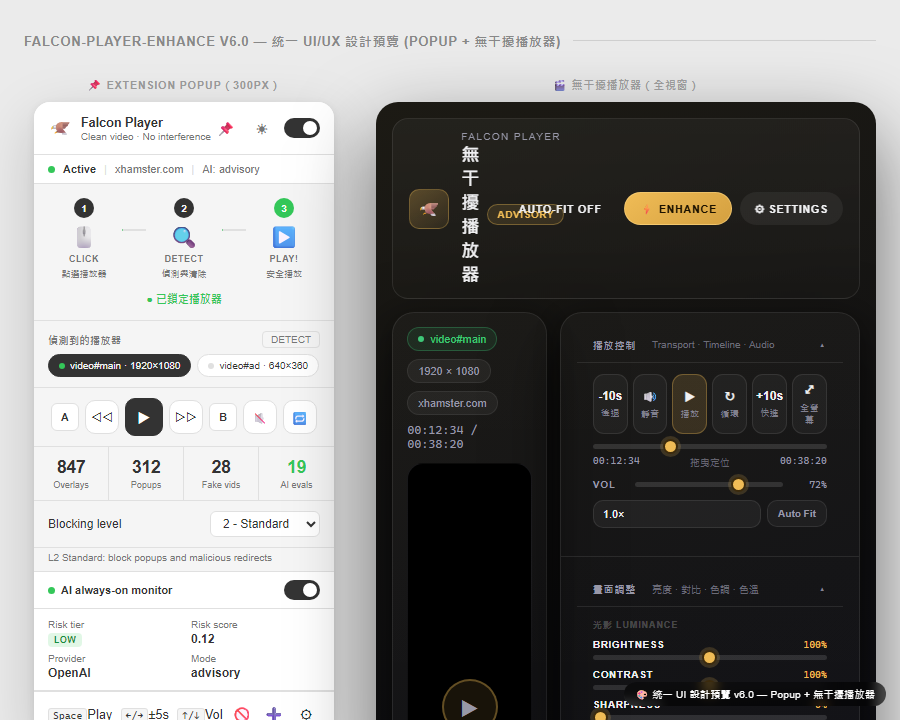
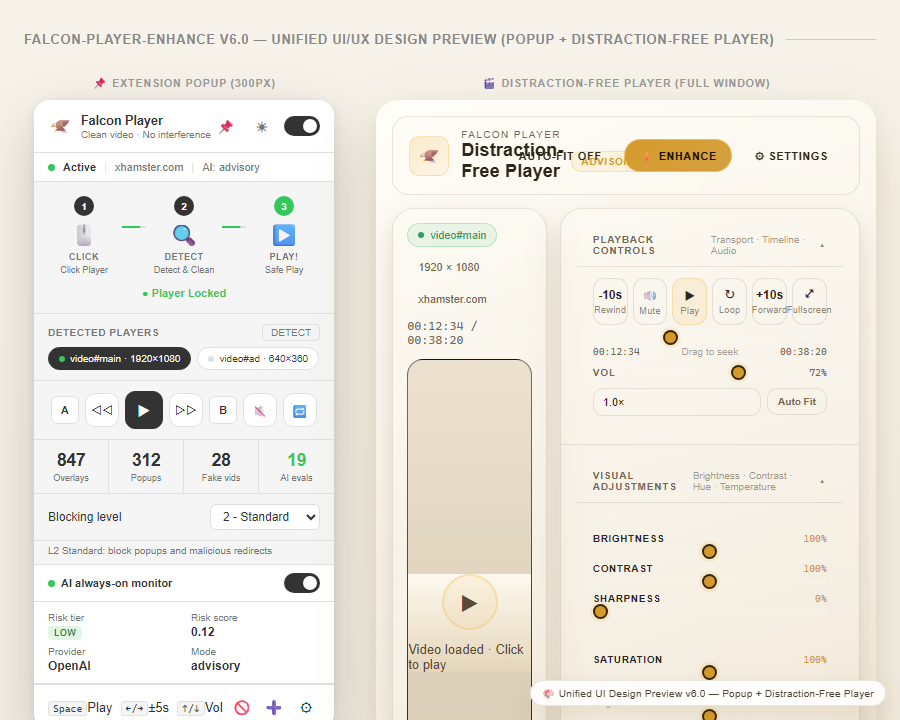
docs: refresh distraction-free player screenshots

diff --git a/docs/take-screenshots.py b/docs/take-screenshots.py
@@ -25,11 +25,240 @@ def scroll_to_selector(page, selector: str) -> None:
     )
 
 
+def assert_no_cjk_text(page, label: str) -> None:
+    remaining = page.evaluate(
+        """() => {
+            const matches = [];
+            const walker = document.createTreeWalker(document.body, NodeFilter.SHOW_TEXT);
+            while (walker.nextNode()) {
+                const node = walker.currentNode;
+                const text = (node.textContent || '').replace(/\\s+/g, ' ').trim();
+                if (!text || !/[\\u3400-\\u9fff]/.test(text)) continue;
+                const parent = node.parentElement;
+                if (!parent) continue;
+                const style = window.getComputedStyle(parent);
+                if (style.display === 'none' || style.visibility === 'hidden') continue;
+                matches.push(text);
+                if (matches.length >= 12) break;
+            }
+            return matches;
+        }"""
+    )
+    if remaining:
+        raise RuntimeError(f"{label} still contains CJK text: {remaining}")
+
+
+def inject_player_english(page) -> None:
+    page.evaluate(
+        """() => {
+            const map = {
+                '統一 UI/UX 設計預覽 (Popup + 無干擾播放器)': 'Unified UI/UX Design Preview (Popup + Distraction-Free Player)',
+                '統一 UI/UX 設計預覽': 'Unified UI/UX Design Preview',
+                '點選播放器': 'Click Player',
+                '偵測與清除': 'Detect & Clean',
+                '安全播放': 'Safe Play',
+                '● 已鎖定播放器': '● Player Locked',
+                '已鎖定播放器': 'Player Locked',
+                '偵測到的播放器': 'Detected Players',
+                'Three-Gray token system · 300px 固定寬 · 支援深色模式': 'Three-Gray token system · 300px fixed width · Dark mode support',
+                '無干擾播放器（全視窗）': 'Distraction-Free Player (Full Window)',
+                '無干擾播放器': 'Distraction-Free Player',
+                '影片已載入 · 點選播放': 'Video loaded · Click to play',
+                '播放控制': 'Playback Controls',
+                '後退': 'Rewind',
+                '靜音': 'Mute',
+                '播放': 'Play',
+                '循環': 'Loop',
+                '快進': 'Forward',
+                '全螢幕': 'Fullscreen',
+                '拖曳定位': 'Drag to seek',
+                '畫面調整': 'Visual Adjustments',
+                '亮度 · 對比 · 色調 · 色溫': 'Brightness · Contrast · Hue · Temperature',
+                '光影 Luminance': 'Luminance',
+                '色彩 Color': 'Color',
+                '色調 Tint': 'Hue / Tint',
+                '洋紅 M': 'Magenta',
+                '綠 G': 'Green',
+                '色溫 Temp': 'Temperature',
+                '中性': 'Neutral',
+                '冷 Cool': 'Cool',
+                '暖 Warm': 'Warm',
+                '防護設定': 'Protection Settings',
+                'Link Shield · 嵌入保護': 'Link Shield · Embed Protection',
+                '封鎖嵌入連結': 'Block Embed Links',
+                '舞台重置': 'Reset Stage',
+                '在 iframe 模式下，防護層覆蓋嵌入頁面，防止意外廣告點擊與外部跳轉。': 'In iframe mode, the shield covers the embedded page to prevent accidental ad clicks and external redirects.',
+                '音量': 'Volume',
+                '設計說明 — 一致性決策': 'Design Notes — Consistency Decisions',
+                '共用 Token（兩個 UI 都遵守）': 'Shared Tokens (Both UIs)',
+                'Radius scale 統一': 'Unified radius scale',
+                'Font stack 統一': 'Unified font stack',
+                'Motion 統一': 'Unified motion easing',
+                'Accent 橋接': 'Accent bridging',
+                'Popup 主要改動': 'Popup Key Changes',
+                'Status bar 新增': 'New status bar',
+                'Player chip 重設計': 'Player chip redesign',
+                'Stats 第 4 欄': 'Stats 4th column',
+                'AI monitor panel 精簡': 'Streamlined AI monitor',
+                'Player v6 主要改動': 'Player v6 Key Changes',
+                '3 折疊分區取代 5 固定 section': '3 collapsible sections replace 5 fixed',
+                'Transport 改為 6 按鈕橫排': 'Transport: 6-button row layout',
+                '畫面調整新增色調 Tint + 色溫 Temp': 'Added Hue/Tint + Color Temperature',
+                '移除 AI panel': 'Removed AI panel',
+                'Token 對照表': 'Token Reference',
+                '用途': 'Usage',
+                '背景': 'Background',
+                '卡片': 'Card',
+                '主文字': 'Primary text',
+                '主動色': 'Active accent',
+                '反色': 'Inverse',
+                '成功/安全': 'Success/Safe',
+                '危險': 'Danger',
+                'Radius 基準': 'Radius base',
+                '統一 UI 設計預覽 v6.0 — Popup + 無干擾播放器': 'Unified UI Design Preview v6.0 — Popup + Distraction-Free Player',
+                'Cinema dark · oklch 主色橋接為 amber (#F0BC56) · v6: 3 折疊分區 · 無 AI panel · 色調/色溫': 'Cinema dark · oklch accent bridged to amber (#F0BC56) · v6: 3 collapsible sections · No AI panel · Hue/Temperature'
+            };
+            document.documentElement.lang = 'en';
+            const walker = document.createTreeWalker(document.body, NodeFilter.SHOW_TEXT);
+            while (walker.nextNode()) {
+                const node = walker.currentNode;
+                for (const [zh, en] of Object.entries(map)) {
+                    if (node.textContent.includes(zh)) {
+                        node.textContent = node.textContent.replace(zh, en);
+                    }
+                }
+            }
+            document.title = document.title.replace(/統一 UI\\/UX 設計預覽.*/, 'Unified UI/UX Design Preview v6.0');
+            const banner = document.querySelector('.preview-banner');
+            if (banner) banner.textContent = '🎨 Unified UI Design Preview v6.0 — Popup + Distraction-Free Player';
+
+            const columnLabels = document.querySelectorAll('.col-label');
+            if (columnLabels[0]) columnLabels[0].textContent = '📌 Extension Popup (300px)';
+            if (columnLabels[1]) columnLabels[1].textContent = '🎬 Distraction-Free Player (Full Window)';
+
+            const designNote = document.querySelector('.design-note');
+            if (designNote) {
+                designNote.textContent = 'Cinema dark · oklch accent bridged to amber (#F0BC56) · v6: 3 collapsible sections · No AI panel · Hue / Temperature';
+            }
+
+            const cards = document.querySelectorAll('.anno-card');
+            if (cards[0]) {
+                cards[0].querySelector('.anno-title').textContent = '🔗 Shared Tokens (Both UIs)';
+                const items = cards[0].querySelectorAll('.anno-item div');
+                if (items[0]) items[0].innerHTML = '<strong>Unified radius scale</strong>: xs=4 · sm=6 · md=10 · lg=16 · xl=22 · full=9999px. Buttons, cards, and panels in Popup and Player now use the same scale.';
+                if (items[1]) items[1].innerHTML = '<strong>Unified font stack</strong>: -apple-system, SF Pro Text, Helvetica Neue, Arial. The Player no longer uses the legacy "Avenir Next" stack.';
+                if (items[2]) items[2].innerHTML = '<strong>Unified motion easing</strong>: ease-out cubic-bezier(0.16,1,0.3,1), dur-short=160ms, dur-mid=240ms. Both UIs now feel consistent in motion.';
+                if (items[3]) items[3].innerHTML = '<strong>Accent bridging</strong>: Dashboard stays monochrome, while Player uses amber #F0BC56 as the active accent. Popup AI assessments still echo the green success tone.';
+            }
+
+            if (cards[1]) {
+                cards[1].querySelector('.anno-title').textContent = '🆕 Popup Key Changes';
+                const items = cards[1].querySelectorAll('.anno-item div');
+                if (items[0]) items[0].innerHTML = '<strong>New status bar</strong> under the header: Active / current domain / AI mode, so users can read protection state without scrolling.';
+                if (items[1]) items[1].innerHTML = '<strong>Player chip redesign</strong>: chips now use status dots, and the active chip flips to inverse colors for a clearer "locked" vs "available" state.';
+                if (items[2]) items[2].innerHTML = '<strong>Stats 4th column</strong>: adds AI evals so popup overview stays aligned with the dashboard counters.';
+                if (items[3]) items[3].innerHTML = '<strong>Streamlined AI monitor</strong>: long evidence text is replaced by a 2×2 key-value grid, with gate detail expanding only when needed.';
+            }
+
+            if (cards[2]) {
+                cards[2].querySelector('.anno-title').textContent = '🎬 Player v6 Key Changes';
+                const items = cards[2].querySelectorAll('.anno-item div');
+                if (items[0]) items[0].innerHTML = '<strong>3 collapsible sections replace 5 fixed sections</strong>: playback controls, visual adjustments, and protection settings. Protection stays collapsed by default to save space.';
+                if (items[1]) items[1].innerHTML = '<strong>Transport becomes a 6-button row</strong>: -10s · mute · play · loop · +10s · fullscreen. It is more compact and closer to the earlier preview rhythm.';
+                if (items[2]) items[2].innerHTML = '<strong>Hue / Tint and Temperature added</strong>: luminance and color controls are now split into two subgroups, with SVG and CSS filters handling temperature and tint.';
+                if (items[3]) items[3].innerHTML = '<strong>AI panel removed</strong>: the player keeps a true distraction-free focus, while AI diagnostics move back to the dashboard.';
+            }
+
+            if (cards[3]) {
+                cards[3].querySelector('.anno-title').textContent = '🎨 Token Reference';
+                const headers = cards[3].querySelectorAll('th');
+                if (headers[0]) headers[0].textContent = 'Usage';
+                if (headers[1]) headers[1].textContent = 'Popup / Dashboard';
+                if (headers[2]) headers[2].textContent = 'Player (dark)';
+                const rows = cards[3].querySelectorAll('tbody tr');
+                if (rows[0]) rows[0].children[0].textContent = 'Background';
+                if (rows[1]) rows[1].children[0].textContent = 'Card';
+                if (rows[2]) rows[2].children[0].textContent = 'Primary text';
+                if (rows[3]) rows[3].children[0].textContent = 'Active accent';
+                if (rows[4]) rows[4].children[0].textContent = 'Success / Safe';
+                if (rows[5]) rows[5].children[0].textContent = 'Danger';
+                if (rows[6]) rows[6].children[0].textContent = 'Radius base';
+            }
+        }"""
+    )
+
+
+def apply_player_light_theme(page) -> None:
+    signature = page.evaluate(
+        """() => {
+            const styleId = 'capture-player-light-theme';
+            let style = document.getElementById(styleId);
+            if (!style) {
+                style = document.createElement('style');
+                style.id = styleId;
+                document.head.appendChild(style);
+            }
+            style.textContent = `
+                body {
+                    background: linear-gradient(180deg, #f7f3ea 0%, #efe7dc 100%) !important;
+                    color: #4f4332 !important;
+                }
+                .page-title::after {
+                    background: #d9ccb7 !important;
+                }
+                .device-shell-player {
+                    box-shadow: 0 26px 72px rgba(130, 104, 46, 0.16), 0 8px 18px rgba(130, 104, 46, 0.10) !important;
+                }
+                .player-shell {
+                    --pl-bg: #f6f0e5 !important;
+                    --pl-surface: #fffaf2 !important;
+                    --pl-panel: rgba(255, 251, 243, 0.96) !important;
+                    --pl-panel-hi: rgba(255, 255, 255, 0.98) !important;
+                    --pl-line: rgba(71, 57, 35, 0.12) !important;
+                    --pl-line-hi: rgba(71, 57, 35, 0.2) !important;
+                    --pl-text: #2f261a !important;
+                    --pl-text-muted: #756954 !important;
+                    --pl-amber: #d59a2a !important;
+                    --pl-amber-hi: #eab54e !important;
+                    --pl-green: #2d9e68 !important;
+                    --pl-red: #d95d4e !important;
+                    --pl-blue: #5476d8 !important;
+                    --pl-shadow: 0 18px 42px rgba(120, 92, 38, 0.12), 0 6px 14px rgba(120, 92, 38, 0.08) !important;
+                    background: linear-gradient(160deg, #fffdf7 0%, var(--pl-bg) 58%, #ebdfcb 100%) !important;
+                }
+                .pl-frame-inner {
+                    background: linear-gradient(180deg, #ebe1ce 0%, #d4c5ad 100%) !important;
+                }
+                .pl-frame-placeholder {
+                    background: linear-gradient(180deg, rgba(255, 251, 242, 0.94), rgba(229, 214, 186, 0.96)) !important;
+                    color: #594a34 !important;
+                }
+                .pl-progress-thumb {
+                    border-color: #fff8ec !important;
+                }
+                .preview-banner {
+                    background: rgba(255, 255, 255, 0.92) !important;
+                    color: #4f4332 !important;
+                    border: 1px solid rgba(130, 104, 46, 0.16) !important;
+                    box-shadow: 0 10px 26px rgba(130, 104, 46, 0.12) !important;
+                }
+            `;
+            const shell = document.querySelector('.player-shell');
+            return shell ? getComputedStyle(shell).getPropertyValue('--pl-bg').trim() : '';
+        }"""
+    )
+    if signature.lower() != "#f6f0e5":
+        raise RuntimeError(f"player light theme override failed: {signature}")
+
+
 def capture_player_previews(browser) -> None:
     print("1. Player Preview (Dark)...")
     page = browser.new_page(viewport={"width": 900, "height": 720})
     page.goto(page_uri("docs", "player-ui-preview.html"), wait_until="networkidle")
     page.wait_for_timeout(500)
+    inject_player_english(page)
+    assert_no_cjk_text(page, "player preview (dark)")
+    page.wait_for_timeout(300)
     page.screenshot(path=str(SCREENSHOTS_DIR / "01-player-dark-full.png"), full_page=False)
     print("   => 01-player-dark-full.png")
 
@@ -39,12 +268,10 @@ def capture_player_previews(browser) -> None:
     print("   => 02-player-dark-controls.png")
 
     print("2. Player Preview (Light)...")
-    theme_button = page.locator("#btn-theme, .btn-theme").first
-    if theme_button.count() > 0:
-        theme_button.click()
-    else:
-        page.evaluate("() => { document.body.dataset.theme = 'light'; }")
+    apply_player_light_theme(page)
     page.wait_for_timeout(500)
+    inject_player_english(page)
+    assert_no_cjk_text(page, "player preview (light)")
     page.evaluate("() => window.scrollTo(0, 0)")
     page.wait_for_timeout(300)
     page.screenshot(path=str(SCREENSHOTS_DIR / "03-player-light-full.png"), full_page=False)
@@ -104,6 +331,9 @@ def capture_fullpage_previews(browser) -> None:
     page = browser.new_page(viewport={"width": 900, "height": 720})
     page.goto(page_uri("docs", "player-ui-preview.html"), wait_until="networkidle")
     page.wait_for_timeout(500)
+    inject_player_english(page)
+    assert_no_cjk_text(page, "player preview (fullpage)")
+    page.wait_for_timeout(300)
     page.screenshot(path=str(SCREENSHOTS_DIR / "12-player-fullpage.png"), full_page=True)
     print("   => 12-player-fullpage.png")
     page.close()
